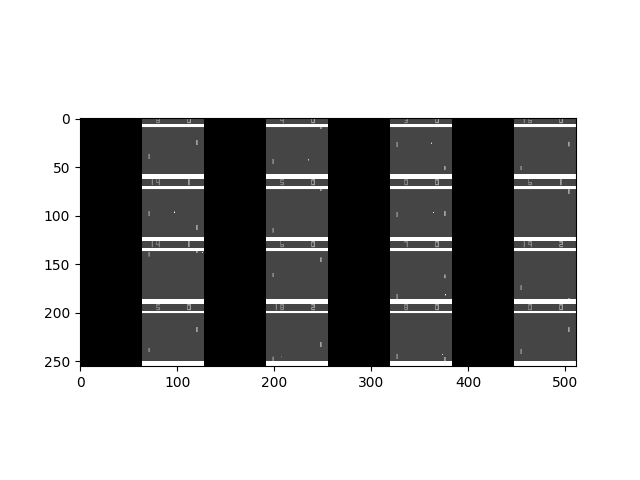
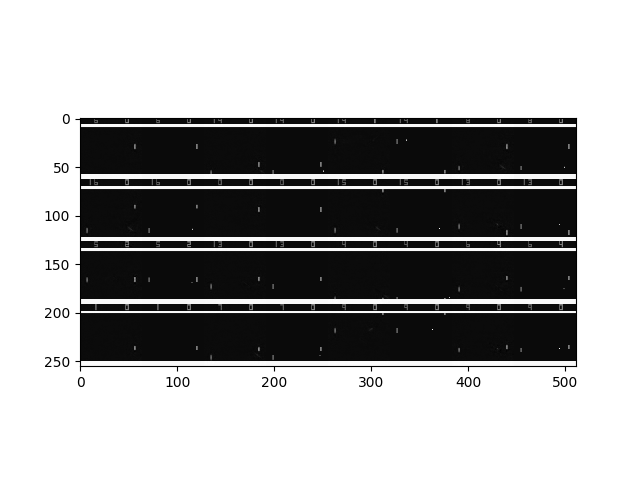
---

Changed region(s): [[0.125, 0.25, 0.9062, 0.7812], [0.125, 0.75, 0.2188, 0.7812]]

diff --git a/3dvae/vae.py b/3dvae/vae.py
@@ -49,21 +49,19 @@ class VariantionalAutoencoder(object):
         # Reconstruction loss
         # Minimize the cross-entropy loss
         # H(x, x_hat) = -\Sigma x*log(x_hat) + (1-x)*log(1-x_hat)
-        '''
         epsilon = 1e-10
         recon_loss = -tf.reduce_sum(
             self.x * tf.log(epsilon+self.x_hat) + (1-self.x) * tf.log(epsilon+1-self.x_hat),
             axis=[1,2,3]
         )
-        '''
-        self.recon_loss = tf.losses.mean_squared_error(self.x,self.x_hat) # tf.reduce_mean(recon_loss)
+        self.recon_loss = tf.reduce_mean(recon_loss) # tf.losses.mean_squared_error(self.x,self.x_hat)
         # Latent loss
         # Kullback Leibler divergence: measure the difference between two distributions
         # Here we measure the divergence between the latent distribution and N(0, 1)
         latent_loss = -0.5 * tf.reduce_sum(
             1 + self.z_log_sigma_sq - tf.square(self.z_mu) - tf.exp(self.z_log_sigma_sq), axis=1)
         self.latent_loss = tf.reduce_mean(latent_loss) # tf.distributions.kl_divergence()
-        self.total_loss = tf.reduce_mean(1e3*self.recon_loss + self.latent_loss)
+        self.total_loss = tf.reduce_mean(self.recon_loss + self.latent_loss)
         self.train_op = tf.train.AdamOptimizer(learning_rate=self.learning_rate).minimize(self.total_loss)
         return
 

diff --git a/3dvae/3dvae.py b/3dvae/3dvae.py
@@ -44,7 +44,8 @@ def main():
     signal.signal(signal.SIGINT,sig_handler)
 
     def save_reproductions():
-        x_reconstructed = model.reconstructor(get_batch(frames))
+        batch = get_batch(frames)
+        x_reconstructed = model.reconstructor(batch)
         n = np.sqrt(model.batch_size).astype(np.int32)//2
         I_reconstructed = np.empty((h*n, 2*w*n))
         for i in range(n):
@@ -58,7 +59,7 @@ def main():
 
     #model = VariantionalAutoencoder([None,64,64,1], 1e-3, batch_size, latent_dim)
     model = VanillaAutoencoder([None,64,64,1], 1e-3, batch_size, latent_dim)
-    for epoch in range(50):
+    for epoch in range(20):
         for iter in range(num_sample // batch_size):
             # Obtina a batch
             batch = get_batch(frames)
@@ -70,7 +71,6 @@ def main():
             model.save_model()
         print('[Epoch {}] Loss: {}'.format(epoch, loss))
     print('Done!')
-    signal.pause()
 
 if __name__ == '__main__':
     main()
